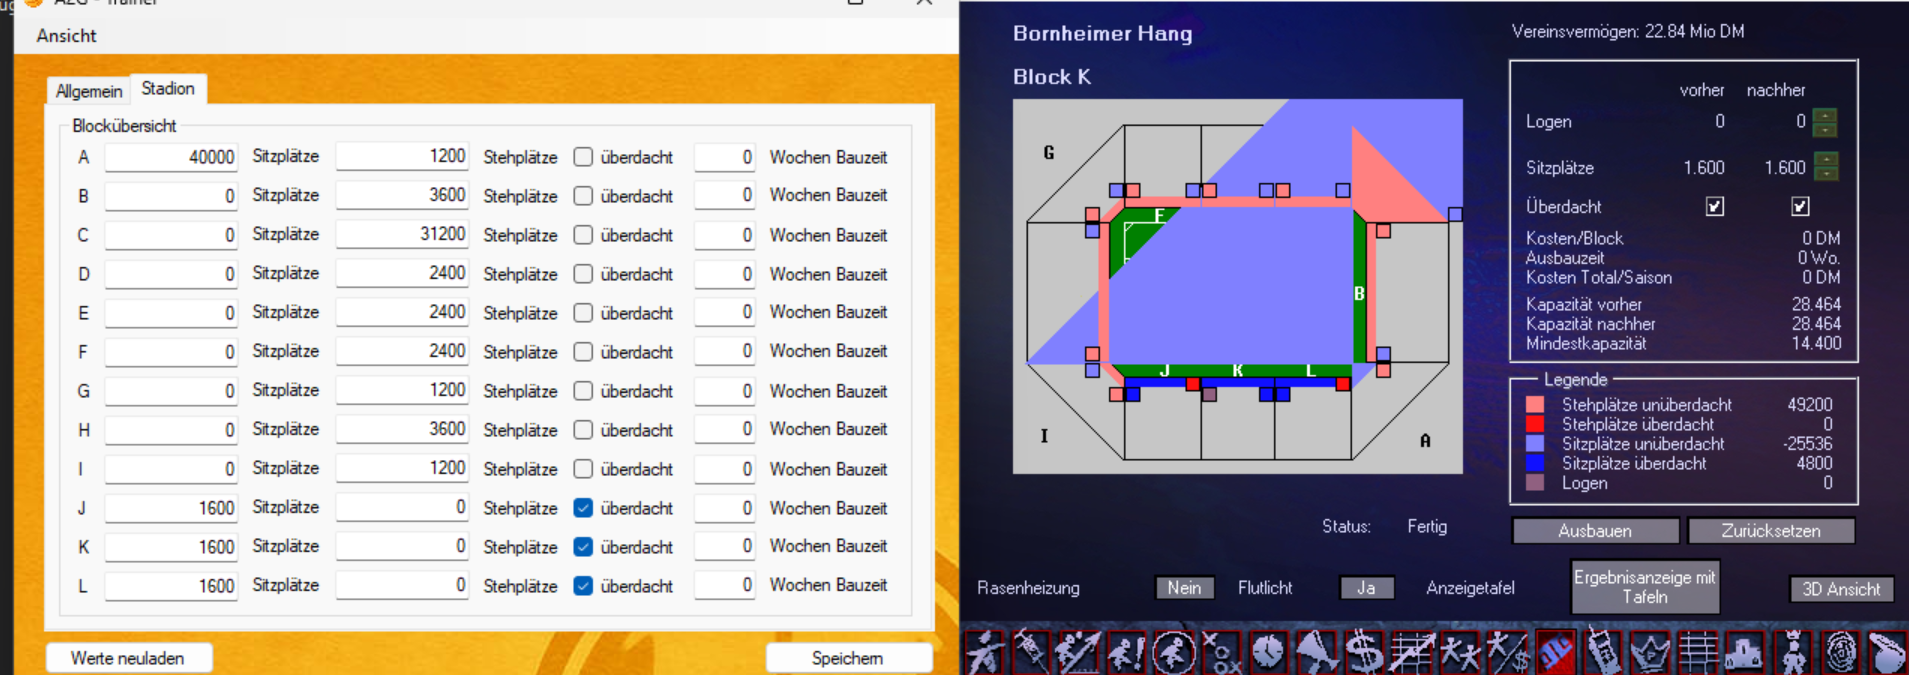
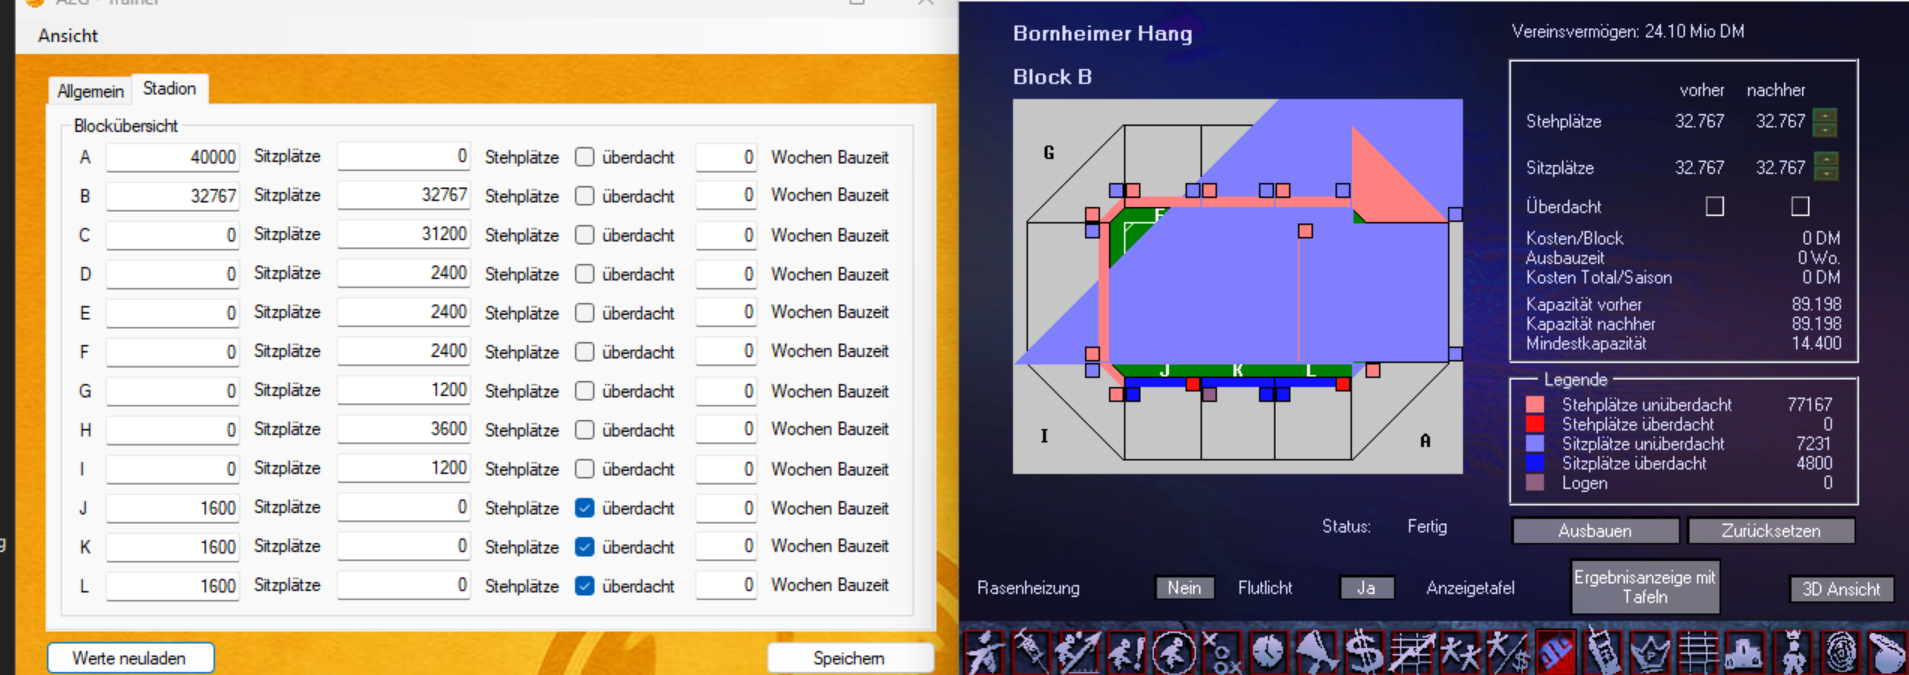
Readme prepared for v0.3.0-alpha release

diff --git a/Readme.md b/Readme.md
@@ -6,54 +6,53 @@ A trainer for **Anstoss 2 Gold**, tested and compatible with both the original C
 Built specifically to run even on legacy systems like **Windows XP SP3 x86**, as well as modern systems like **Windows 11 x64**.
 
 ## 📸 Screenshots
-
-![Screenshot](docs/screenshot_main.png)
+![Screenshot](docs/screenshot_main.png)  
+![Club View](docs/ClubView.png)  
+![Stadium](docs/Stadium.png)
 
 ## 🛠 Features
-
-- ✅ Live memory editing of *Anstoss 2 Gold*
-- ✅ Edit player attributes, positions and skills
-- ✅ Supports multiplexed bitfields (skills etc.)
-- ✅ Clean WinForms UI with tabbed views
-- ✅ Modular MVC architecture
-- ✅ Portable version.
-- ✅ Runs on **Windows XP** (built against `.NET Framework 4.0`)
-- ✅ Uses [Memory.dll](https://github.com/transfairs/memory.dll-xp) for memory access
+- ✅ Live memory editing of *Anstoss 2 Gold*  
+- ✅ Edit player attributes, positions and skills  
+- ✅ Supports multiplexed bitfields (skills etc.)  
+- ✅ Clean WinForms UI with tabbed views and menu navigation  
+- ✅ Modular MVC architecture  
+- ✅ Portable version  
+- ✅ Runs on **Windows XP** (built against `.NET Framework 4.0`)  
+- ✅ Uses [Memory.dll](https://github.com/transfairs/memory.dll-xp) for memory access  
+- ✅ **Club editing** (name, finances, stadium details)  
+- ✅ **Stadium editor** with up to 2 × 32,767 seats per block  
 
 ## 🧩 Dependencies
-
-- On **Windows XP**, make sure [.NET Framework 4.0](https://www.microsoft.com/en-us/download/details.aspx?id=17718) is installed.
-- On **Windows 11**, no additional installation is necessary.
+- On **Windows XP**, make sure [.NET Framework 4.0](https://www.microsoft.com/en-us/download/details.aspx?id=17718) is installed.  
+- On **Windows 11**, no additional installation is necessary.  
 
 ## 🚀 Run Instructions
-
-Just launch `A2G-Trainer-XP.exe` while *Anstoss 2 Gold* is running.  
-The tool will automatically detect the process and allow in-game editing.
+1. Start **Anstoss 2 Gold** and **load your savegame**.  
+2. Launch `A2G-Trainer-XP.exe`. The tool will automatically detect the process and allow in-game editing.  
+3. Click on **Ansicht → Verein** to switch to the club view (finances, stadium, etc.).  
 
 > 📌 [`Memory.dll`](https://github.com/transfairs/memory.dll-xp) must reside in the same folder as the executable.
 
-## 🔧 Build Instructions
+## 💡 Tips & Hints
+- To assign a **negative number of seats** to a stadium block, enter any value **greater than 32,767**.  
+- After editing a stadium block, **Block A is automatically set to one week construction time** to ensure all changes are persisted.  
 
-1. Open the solution in **Visual Studio 2019**
-2. Ensure the target framework is **.NET Framework 4.0**
-3. Include [`Memory.dll`](https://github.com/transfairs/memory.dll-xp).
-4. Build the project (`Release|x86` recommended for XP) 
+## 🔧 Build Instructions
+1. Open the solution in **Visual Studio 2019**  
+2. Ensure the target framework is **.NET Framework 4.0**  
+3. Include [`Memory.dll`](https://github.com/transfairs/memory.dll-xp).  
+4. Build the project (`Release|x86` recommended for XP)  
 
 ## Extras
-
 Included in this repository is an updated **Cheat Engine table** originally created by [strajk-](https://www.anstoss-juenger.de/index.php/topic,4619.0.html) for the original version of *Anstoss 2 Gold* (not the GOG version).
 
 ## Credits
-
 Thanks to the [anstoss-juenger.de](https://www.anstoss-juenger.de/index.php/topic,6260.0.html) community, especially **strajk-**. Some code fragments and ideas were taken from his [A2G-RTE project](https://github.com/strajk-/A2G-RTE).
 
-
 ## 🛡 Disclaimer
-
 This tool directly accesses game memory. Use at your own risk.  
 This project is **not affiliated** with **Ascaron** or the developers of *Anstoss 2 Gold*.
 
 ---
 
 Built with ❤ for nostalgic Anstoss 2 fanatics.
-
